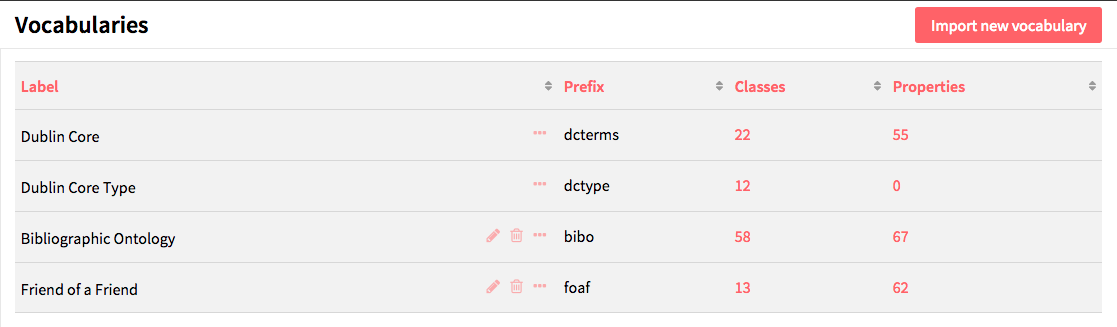
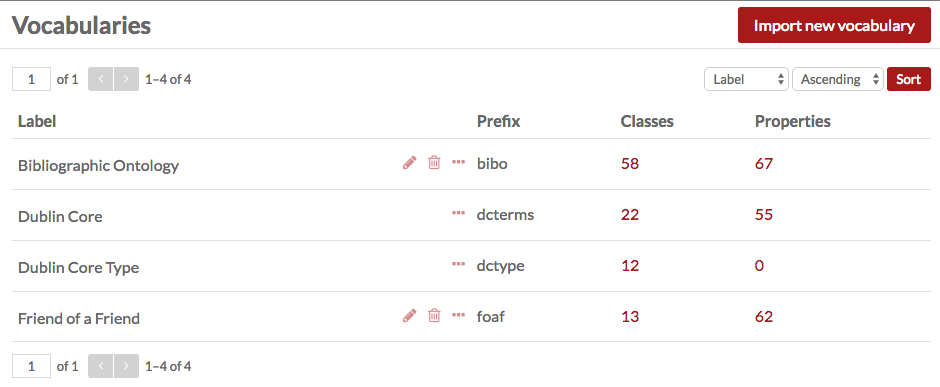
Updates with new look
Updating screenshots and some language for removal of header bar, new
color scheme, etc

diff --git a/admin-dashboard.md b/admin-dashboard.md
@@ -4,15 +4,19 @@ title: Administrative Dashboard
 
 The administrative dashboard manages the content shared by all OmekaS sites and the core functionalities of the OmekaS installation. 
 
-In the upper right hand corner of the window on the admin dashboard and throughout the install is the message “Welcome, *User*” where *User* is the display name of the person logged in. Next to this is the button to *Logout*. 
-
 The following content appears on the left side of the admin dashboard and on all administrative pages. 
 
 ![View of the left hand navigation on the admin dashboard, which also appears consistently throughout the admin interface, with options as described below](/files/leftnav.png)
 
 In the upper left corner of the screen is a link displaying the title of the installation which will always take you back to the admin dashboard. 
 
-Underneath the installation title is a search field which has an option for advanced search (ellipses) in addition to the button to search (magnifying glass). The search function will survey content on the administrative install, including items, vocabularies, resource templates, and media.  
+Directly below the installation title is the message “Signed in as *User*” where *User* is the display name of the person logged in. Next to this is the button to *Logout*. 
+
+Underneath the user information is a search field which has an option for advanced search (ellipses) in addition to the button to search (magnifying glass). The search function will survey content on the administrative install, including items, vocabularies, resource templates, and media.  
+
+Advanced search options (the ellipses) allow you to refine the search by Resource Type, limiting it to *Items*, *Item Sets*, or *Media* by clicking the radio button next to the Resource Type you want to search. 
+
+![Advanced search options](/files/search)
 
 From the left hand navigation of the admin dashboard, Global Administrators can access the following functions:
 
@@ -21,13 +25,15 @@ From the left hand navigation of the admin dashboard, Global Administrators can 
 - [Item Sets](https://github.com/omeka/omeka-s-enduser/blob/master/content/item-sets.md): manage aggregated groups of items. (Multiple boxes icon)
 - [Vocabularies](https://github.com/omeka/omeka-s-enduser/blob/master/content/vocabularies.md): manage the metadata standards for your install. (Closed book icon)
 - [Resource Templates](https://github.com/omeka/omeka-s-enduser/blob/master/content/resource-template.md): manage predefined sets of properties (fields) to use when creating items. (Pencil in a square icon)
-- [Users](https://github.com/omeka/omeka-s-enduser/blob/master/users.md): manage users for the whole install and individual sites. (Three people icon)
+- [Users](https://github.com/omeka/omeka-s-enduser/blob/master/users.md): manage users for the whole install and individual sites. (head and shoulders person icon)
 - [Modules](https://github.com/omeka/omeka-s-enduser/blob/master/modules/modules.md): add functionality to your sites. (Plus sign in square icon)
 - [Jobs](https://github.com/omeka/omeka-s-enduser/blob/master/jobs.md): displays the user-activated tasks which are currently running. NB: jobs only display when they are running. (Three bars icon)
 - [Settings](https://github.com/omeka/omeka-s-enduser/blob/master/settings.md): manage the global settings for all sites, the admin dashboard and the site dashboards. (Gears icon)
 
 If you have installed modules, they may appear in the navigation below settings.
 
-Below the navigation is a small display which tells you which version of Omeka S you are running.
-
 Note that users with more limited permissions will see only some of these navigation options.
+
+In the bottom right corner is a short display of the current version of Omeka S, along with a link to further System Information. 
+
+![Example system information page](/files/systeminformation.png)
